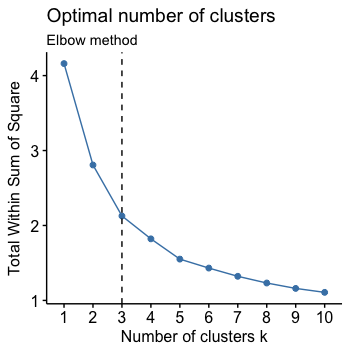
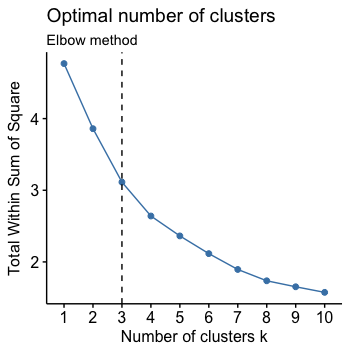
Updated scripts to use public dataset hosted on Google BigQuery

diff --git a/docs/README.md b/docs/README.md
@@ -1,6 +1,5 @@
 # Data Set
-* Original data set contains nearly 10 million individual service requests for New York City 311 from 2010 to 2017
-* Randomly sampled subset containing 1.27 million records
+* Data set contains nearly 17 million individual service requests for New York City 311 from 2010 to 2017
 * Each record includes information such as:
   * service request type
   * service request open/close date and time
@@ -9,13 +8,15 @@
   * additional details (park, school, bridge, taxi company, ferry)
 
 # Data Cleaning
-* Loaded the data from all 8 years into a single data frame
-* Cleaned complaints (originally 280 types): format, grouped
-similar types
-  * Narrowed down to 230 types
-* Only kept complaint types present throughout all 8 years
-  * Doing this removes rare complaint types
-  * Narrowed down to 125 types
+* Loaded the data into a single data frame
+* Cleaned complaints (originally 310 types): format, removed
+rare complaint types (types with less than 50 complaints)
+  * Narrowed down to 253 types
+* Cleaned zip codes: trimmed to 5 digits,
+kept only those corresponding to NYC (207)
+* Only kept zip codes with more than 50 complaints
+  * Thus narrowed down to 227 request types and 193 zip codes
+
 
 Figure 1: Frequency of the different types of complaints (word cloud)
 ---
@@ -23,9 +24,6 @@ Figure 1: Frequency of the different types of complaints (word cloud)
 
 # Neighborhood Typology
 * Grouped the data by neighborhood based on zip codes
-* Cleaned zip codes to keep only those corresponding to NYC,
-i.e. from 10001 (Midtown) to 11697 (Rockaways)
-* Only kept zip codes with more than 50 complaints
 * Then we can define the **typology** of a neighborhood as the
 vector of frequencies of each complaint type
 * Then ran a clustering algorithm (K-means) on the
@@ -42,18 +40,18 @@ Figure 2: Typology of NYC Zip Codes
 
 # Results
 * The clusters obtained seem to make sense
-  * Cluster 1 includes Midtown and Downtown Manhattan, JFK airport
-  * Cluster 2 includes Northern Manhattan, the Bronx and Central Brooklyn
-  * Cluster 3 includes Southern/Eastern Brooklyn, Western Queens and
-parts of Eastern Bronx
-  * Cluster 4 includes Staten Island and Eastern Bronx/Queens
+  * Cluster 1 includes JFK and LGA airport
+  * Cluster 2 includes Midtown and Downtown Manhattan
+  * Cluster 3 includes Northern Manhattan, the Bronx and Central Brooklyn
+  * Cluster 3 includes Southern/Eastern Brooklyn, Eastern Bronx, Queens
+  and Staten Island
 * Then looking at patterns in the distribution of the 20 most
 common complaint types within each cluster we can see that
-  * Cluster 1 has the highest frequency of noise complaints, corresponding to very busy areas
-  * Cluster 2 has the highest frequency of heating and plumbing complaints, suggesting somewhat run-down neighborhoods
-  * Cluster 3 exhibits most complaints about noise from residential source, heating and blocked driveways, indicating residential areas
-  * Cluster 4 has the highest frequency of street condition complaints
-among all clusters, reflecting more suburban neighborhoods
+  * Cluster 1 has a high frequency of illegal parking complaints
+  * Cluster 2 has the highest frequency of noise complaints, corresponding to very busy areas
+  * Cluster 3 exhibits the most complaints about heating and hot water, as well as
+  noise from residential sources, suggesting somewhat run-down residential neighborhoods
+  * Cluster 4 has high frequency of complaints about blocked driveways, street condition and noise from residential sources, indicating more suburban residential areas.
 
 Figure 3: Patterns of Top 20 Complaint Types by Cluster
 ---
@@ -69,24 +67,3 @@ education levels, median income, ethnicity
 * Mass transit: MTA ridership statistics, traffic incidents
 * Hospital inpatient data
 * Public school enrollment
-
-# Miscellaneous
-* Instead of looking at complaint type frequencies, we can also look at the distribution of requests throughout the workweek
-  * Weekday business hours (9 am-5 pm)
-  * Weekday outside of business hours
-  * Weekend
-* Again, define the vector of frequency of requests across those
-time windows for each zip code area
-  * Clustered the neighborhoods according to these vectors
-  * This time set k = 3
-
-Figure 4: Alternative Typology of NYC Zip Codes
----
-![Figure 4: Alternative Typology of NYC zip codes](https://acomets.github.io/nyc-311/zip_workweek.png)
-
-* Expected the frequency of requests during the campaign preceding the 2013 mayoral election (three months leading to November 5, 2013) to exhibit different behavior from normal
-* While this did not seem true, the trend of overall frequency of complaints exhibit a different behavior under the two tenures
-
-Figure 5: Number of service request trends vs. mayor tenure
----
-![Figure 5: Number of service request trends vs. mayor tenure](https://acomets.github.io/nyc-311/mayor.png)

diff --git a/README.md b/README.md
@@ -1,12 +1,18 @@
 # nyc-311
 Clustering of neighborhood typology on NYC 311 data.
 
-This project is inspired from the work in [this paper](https://doi.org/10.1371/journal.pone.0186314).
+This project is inspired from the work in [this paper](https://doi.org/10.1371/journal.pone.0186314) [1].
 
 # Data set
-The data used for this project is a subset of [NYC 311 Service Requests from 2010 to Present](https://data.cityofnewyork.us/Social-Services/311-Service-Requests-from-2010-to-Present/erm2-nwe9).
+The data used for this project the [NYC 311 Service Requests Data](https://data.cityofnewyork.us/Social-Services/311-Service-Requests-from-2010-to-Present/erm2-nwe9) made available through [Google BigQuery](https://cloud.google.com/bigquery/public-data/nyc-311).
 
-The original data set contains nearly 10 million individual service requests spanning from 2010 to the present. The subset used for this project contains 1.27 million records.
+It contains nearly 17 million individual service requests spanning from 2010 to the present.
+
+# Google BigQuery
+For help on how to use Google BigQuery, please visit the following [tutorial](https://cfss.uchicago.edu/distrib001_database.html#google_bigquery).
 
 # Results
 See [GitHub Pages](https://acomets.github.io/nyc-311/).
+
+# References
+[1] Wang, L., Qian, C., Kats, P., Kontokosta, C. and Sobolevsky, S., _Structure of 311 service requests as a signature of urban location_. October 17, 2017.
